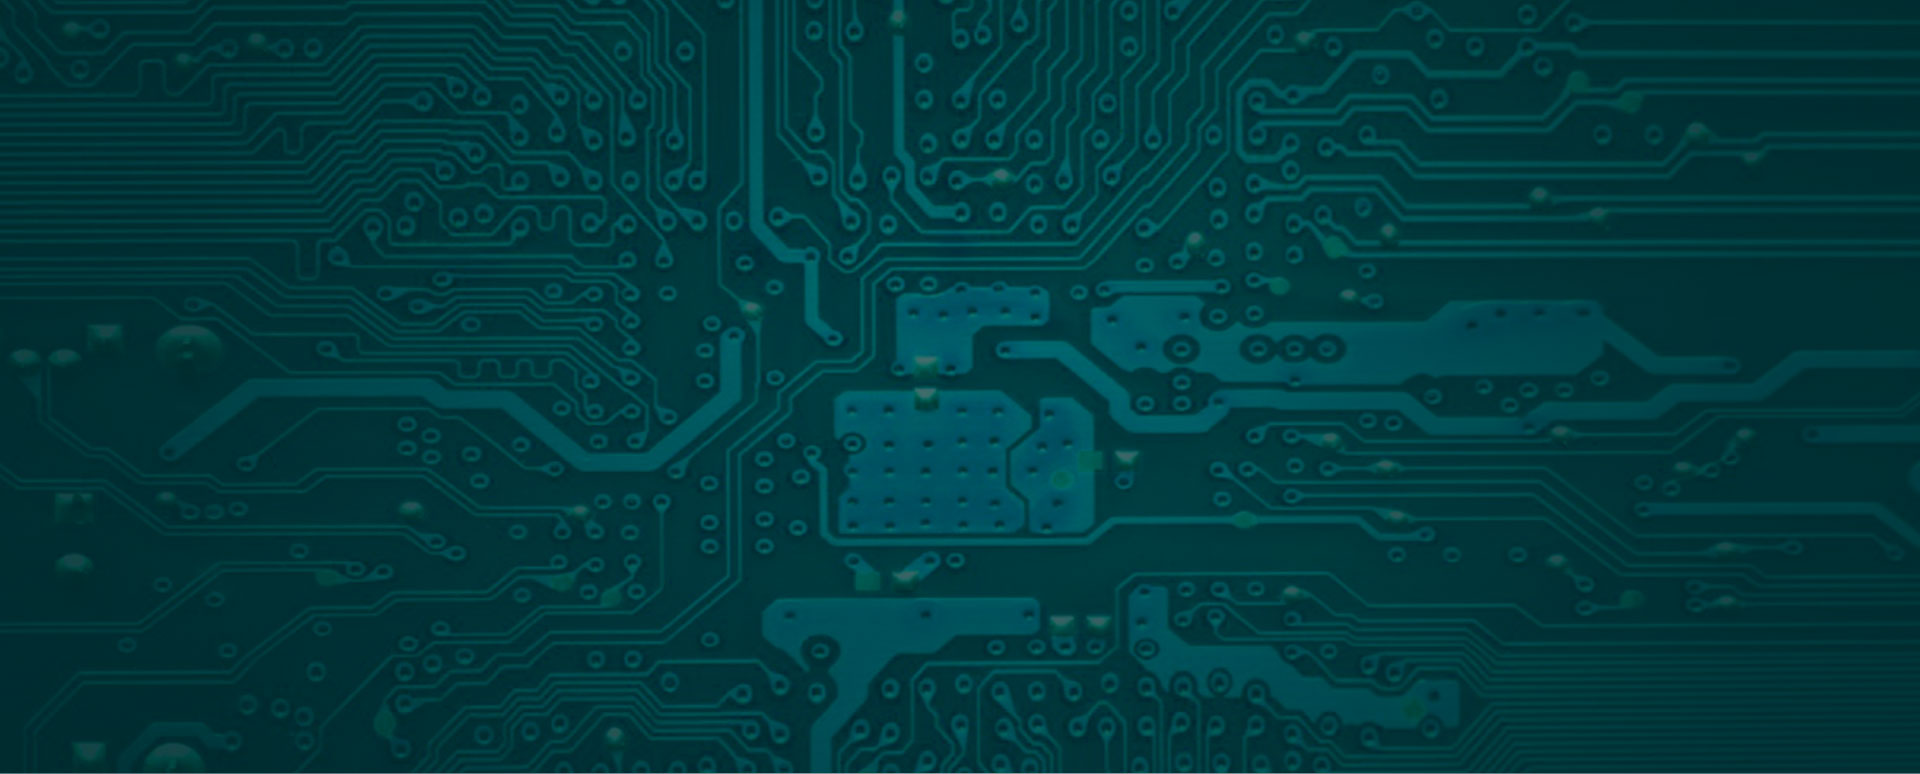
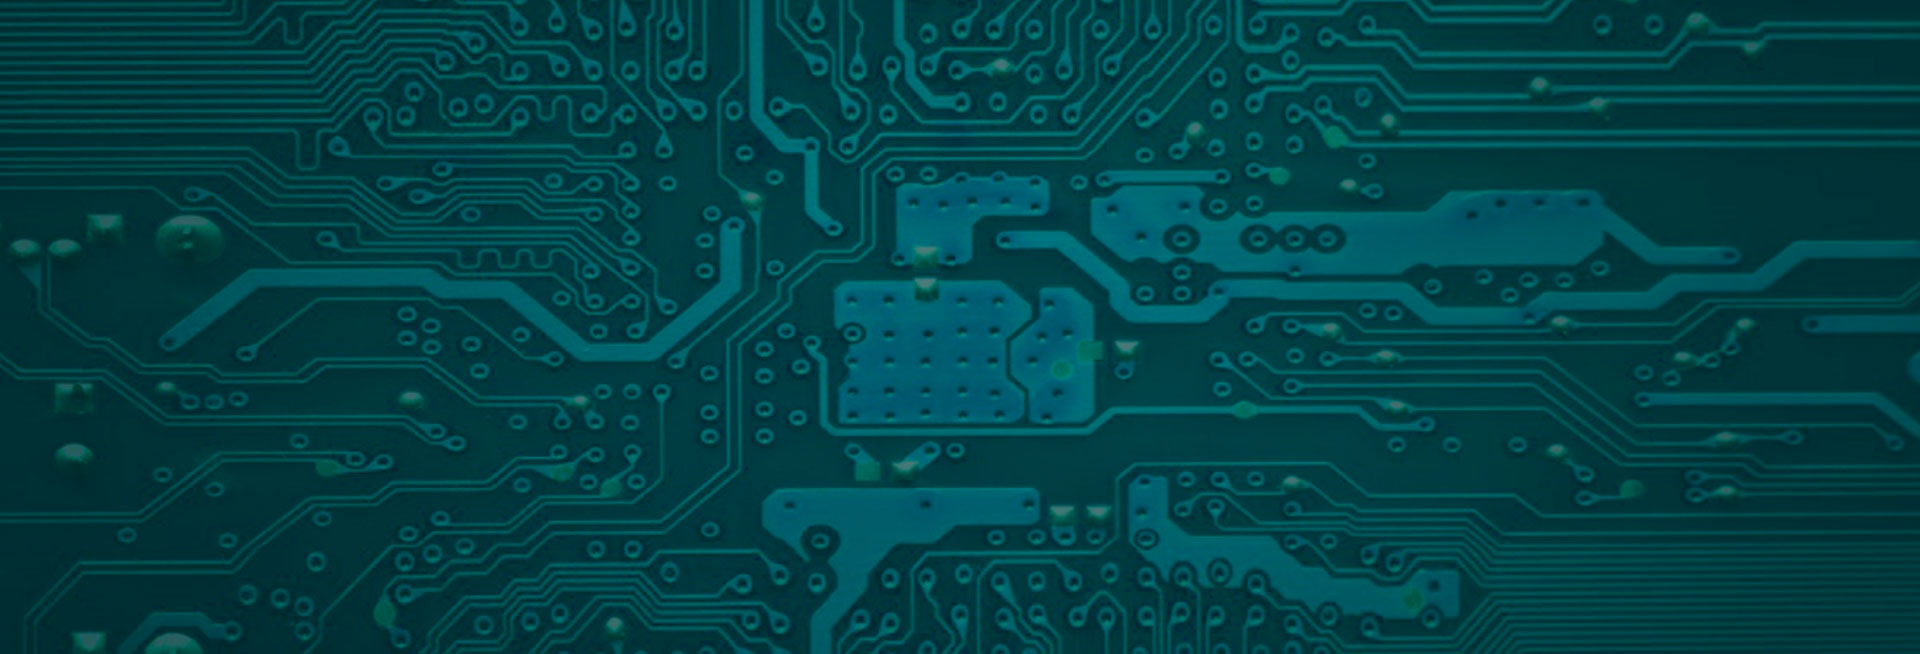
+ update for feedback

diff --git a/en/style.css b/en/style.css
@@ -150,7 +150,7 @@ body {
 	bottom: 38px;
 	text-align: left;
 	font-family: "Georgia";
-	font-size: 24px;
+	font-size: 18px;
 }
 
 #banner .home {
@@ -158,7 +158,7 @@ body {
 	background-size: 20px 18px;
 	min-height: 18px;
 	min-width: 20px;
-	right: 1225px;
+	right: 995px;
 	padding-left: 30px;
 	color: #333333;
 	cursor: pointer;
@@ -169,7 +169,7 @@ body {
 	background-size: 20px 18px;
 	min-height: 18px;
 	min-width: 20px;
-	right: 1225px;
+	right: 995px;
 	padding-left: 30px;
 	color: #f96700;
 }
@@ -179,7 +179,7 @@ body {
 	background-size: 15px 18px;
 	min-height: 18px;
 	min-width: 15px;
-	right: 915px;
+	right: 750px;
 	padding-left: 25px;
 	color: #333333;
 	cursor: pointer;
@@ -190,7 +190,7 @@ body {
 	background-size: 15px 18px;
 	min-height: 18px;
 	min-width: 15px;
-	right: 915px;
+	right: 750px;
 	padding-left: 25px;
 	color: #f96700;
 }
@@ -200,7 +200,7 @@ body {
 	background-size: 19px 18px;
 	min-height: 18px;
 	min-width: 19px;
-	right: 633px;
+	right: 535px;
 	padding-left: 29px;
 	color: #333333;
 	cursor: pointer;
@@ -211,7 +211,7 @@ body {
 	background-size: 19px 18px;
 	min-height: 18px;
 	min-width: 19px;
-	right: 633px;
+	right: 535px;
 	padding-left: 29px;
 	color: #f96700;
 }
@@ -221,7 +221,7 @@ body {
 	background-size: 18px 20px;
 	min-height: 20px;
 	min-width: 18px;
-	right: 320px;
+	right: 300px;
 	padding-left: 28px;
 	color: #333333;
 	cursor: pointer;
@@ -232,7 +232,7 @@ body {
 	background-size: 18px 20px;
 	min-height: 20px;
 	min-width: 18px;
-	right: 320px;
+	right: 300px;
 	padding-left: 28px;
 	color: #f96700;
 }
@@ -427,9 +427,6 @@ body {
 #footer .il-investing { top: 170px; }
 #footer .il-blockchain { top: 220px; }
 #footer .il-career { top: 275px; }
-
-/* index.php stylesheet */
-#index { height: 3439px; }
 
 /* investing.php stylesheet */
 #investing { height: 1938px; }
@@ -1153,7 +1150,7 @@ body {
 }
 
 /* research.php stylesheet */
-#research { height: 4127px; }
+#research { height: 4177px; }
 
 #research .header {
 	background-image: url(assets/image/1/banner.jpg);
@@ -1188,7 +1185,7 @@ body {
 }
 
 #research .s4 {
-	height: 980px;
+	height: 1030px;
 	max-width: 1920px;
 	background-color: #ffffff;
 	margin: 0px auto;
@@ -1420,7 +1417,7 @@ body {
 	width: 100%;
 	height: 238px;
 	position: absolute;
-	top: 430px;
+	top: 470px;
 	left: 0px;
 }
 
@@ -1905,14 +1902,14 @@ body {
 }
 
 /* index.php stylesheet */
-#index { height: 3440px; }
+#index { height: 3320px; }
 
 #index .header {
 	background-image: url(assets/image/0/banner1.jpg);
 	background-repeat: no-repeat;
 	background-position: center;
 	overflow: visible;
-	height: 774px;
+	height: 654px;
 	margin: 0px auto;
 	position: relative;
 }

diff --git a/en/research.php b/en/research.php
@@ -116,10 +116,10 @@ Template Name: research.php
 
 			<div class="s4-container s4c1">
 				<div class="s4c1-icon"></div>
-				<div class="s4-title" style="top: 310px;">Longest Track Record</div>
-				<div class="s4-line" style="top: 374px;"></div>
-				<div class="s4-mark" style="background-color: #00647b; top: 368px;"></div>
-				<div class="s4-text" style="top: 390px;">Since 2012, Goldpebble has been pioneering in providing <i>quantamental</i> research services to world-top investors. With the longest track record, Goldpebble is the first research company to adopt big data and cloud computing technologies in building investing edge.<br/><br/>Goldpebble's alernative data about companies' key operation metrics have been more accurate than Wall Street analysis for more than 20 quarters. The companies covered</div>
+				<div class="s4-title" style="top: 275px;">Longest Track Record</div>
+				<div class="s4-line" style="top: 334px;"></div>
+				<div class="s4-mark" style="background-color: #00647b; top: 328px;"></div>
+				<div class="s4-text" style="top: 350px;">Since 2012, Goldpebble has been pioneering in providing <i>quantamental</i> research services to world-top investors. With the longest track record, Goldpebble is the first research company to adopt big data and cloud computing technologies in building investing edge.<br/><br/>Goldpebble's alernative data about companies' key operation metrics have been more accurate than Wall Street analysis for more than 20 quarters. The companies covered includes not only mid-cap stocks (e.g. MOMO, YY), but also mega-cap ones (e.g. Tencent, BABA).</div>
 			</div>
 
 			<div class="s4-container s4c2">
@@ -132,10 +132,10 @@ Template Name: research.php
 
 			<div class="s4-container s4c3">
 				<div class="s4c3-icon"></div>
-				<div class="s4-title" style="top: 290px;">Systems Make Things Different</div>
-				<div class="s4-line" style="top: 374px;"></div>
-				<div class="s4-mark" style="background-color: #00647b; top: 368px;"></div>
-				<div class="s4-text" style="top: 390px;">Supplemented by leading technology in big data processing, Goldpebble extends its experties in investment research.<br/><br/>Goldpebble has built several proprietary systems, including GP HIDEN, GP CORE, GP OS and GP Psyc, and provides the best <i>quantamental</i> research service in China to global mutual funds, hedge funds, corporate leaders and family offices.</div>
+				<div class="s4-title" style="top: 275px;">Systems Make Things Different</div>
+				<div class="s4-line" style="top: 364px;"></div>
+				<div class="s4-mark" style="background-color: #00647b; top: 358px;"></div>
+				<div class="s4-text" style="top: 380px;">Supplemented by leading technology in big data processing, Goldpebble extends its experties in investment research.<br/><br/>Goldpebble has built several proprietary systems, including GP HIDEN, GP CORE, GP OS and GP Psyc, and provides the best <i>quantamental</i> research service in China to global mutual funds, hedge funds, corporate leaders and family offices.</div>
 			</div>
 		</div>
 	</div>
